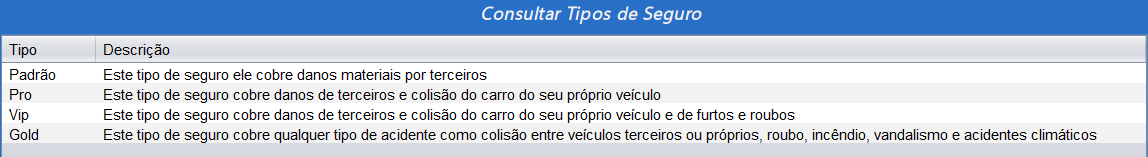
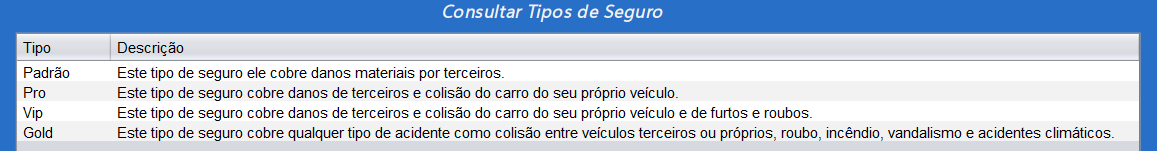
SeguroFácil

diff --git a/src/main/java/view/ViewConsultaTiposSeguro.java b/src/main/java/view/ViewConsultaTiposSeguro.java
@@ -75,19 +75,23 @@ public class ViewConsultaTiposSeguro extends javax.swing.JFrame {
         jPanel1.setLayout(jPanel1Layout);
         jPanel1Layout.setHorizontalGroup(
             jPanel1Layout.createParallelGroup(javax.swing.GroupLayout.Alignment.LEADING)
-            .addComponent(jScrollPane1)
             .addGroup(jPanel1Layout.createSequentialGroup()
-                .addGap(385, 385, 385)
-                .addComponent(jLabel4, javax.swing.GroupLayout.PREFERRED_SIZE, 187, javax.swing.GroupLayout.PREFERRED_SIZE)
-                .addContainerGap(349, Short.MAX_VALUE))
+                .addGroup(jPanel1Layout.createParallelGroup(javax.swing.GroupLayout.Alignment.LEADING)
+                    .addGroup(jPanel1Layout.createSequentialGroup()
+                        .addGap(14, 14, 14)
+                        .addComponent(jScrollPane1, javax.swing.GroupLayout.PREFERRED_SIZE, 904, javax.swing.GroupLayout.PREFERRED_SIZE))
+                    .addGroup(jPanel1Layout.createSequentialGroup()
+                        .addGap(356, 356, 356)
+                        .addComponent(jLabel4, javax.swing.GroupLayout.PREFERRED_SIZE, 187, javax.swing.GroupLayout.PREFERRED_SIZE)))
+                .addContainerGap(14, Short.MAX_VALUE))
         );
         jPanel1Layout.setVerticalGroup(
             jPanel1Layout.createParallelGroup(javax.swing.GroupLayout.Alignment.LEADING)
             .addGroup(javax.swing.GroupLayout.Alignment.TRAILING, jPanel1Layout.createSequentialGroup()
                 .addComponent(jLabel4)
-                .addPreferredGap(javax.swing.LayoutStyle.ComponentPlacement.RELATED, javax.swing.GroupLayout.DEFAULT_SIZE, Short.MAX_VALUE)
+                .addPreferredGap(javax.swing.LayoutStyle.ComponentPlacement.RELATED)
                 .addComponent(jScrollPane1, javax.swing.GroupLayout.PREFERRED_SIZE, 443, javax.swing.GroupLayout.PREFERRED_SIZE)
-                .addContainerGap())
+                .addContainerGap(javax.swing.GroupLayout.DEFAULT_SIZE, Short.MAX_VALUE))
         );
 
         javax.swing.GroupLayout layout = new javax.swing.GroupLayout(getContentPane());
